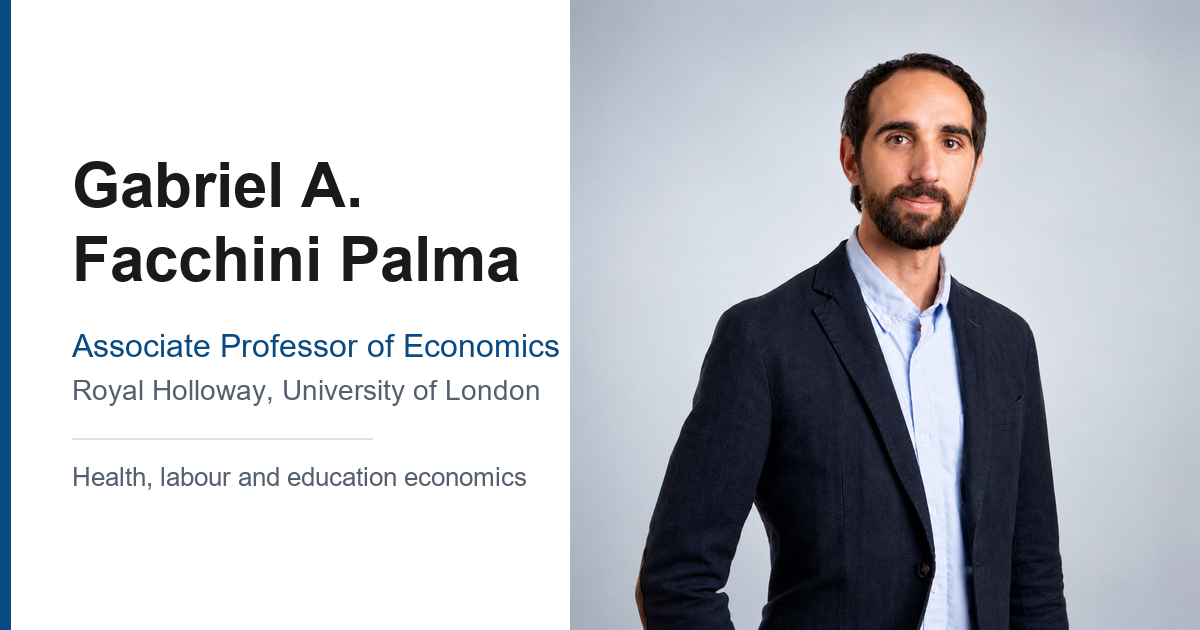
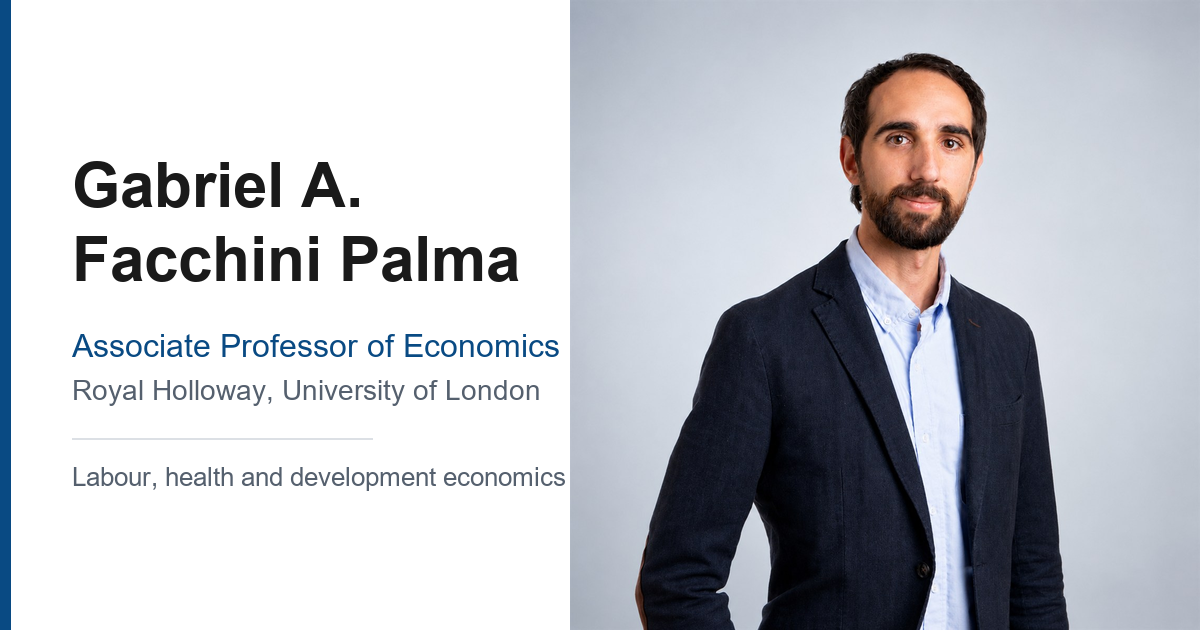
Settle the three content questions Gabriel answered
FLASH: he is part of the research team, not the coordinator, and the project's
real name is FLASH -- "Flexible Approaches to Support Health through financing",
grant 101095424, confirmed against CORDIS. The news item said "Coordinator" and
gave an informal project title; the CV had it right all along.

Fields of interest were framed four different ways across _config.yml, the
homepage bio and the CV. All now say labour, health and development economics.
"Political Economy" is dropped from the CV list, which he did not include.

Publication years were the online-first dates, not the issue dates:
- Forgetting-by-not-doing, Health Economics 31(3): online Dec 2021, issue 2022
- BJGP 76(767): online Dec 2025, issue 2026
Both moved to the issue year. This reorders the Publications section.

og_preview.png is regenerated -- the old field list was baked into the image.

Changed region(s): [[0.0617, 0.7238, 0.4625, 0.7841]]

diff --git a/_pages/about.md b/_pages/about.md
@@ -34,7 +34,7 @@ latest_posts:
 ---
 
 I am an Associate Professor of Economics at Royal Holloway, University of London. I work in applied
-microeconomics, mainly in **health, labour and education economics**.
+microeconomics, mainly in **labour, health and development economics**.
 
 Before joining Royal Holloway, I taught at the Universitat Autònoma de Barcelona. I hold a PhD in
 Economics from the European University Institute.

diff --git a/_news/2023-09-01-horizon-europe-project.md b/_news/2023-09-01-horizon-europe-project.md
@@ -5,4 +5,4 @@ inline: true
 related_posts: false
 ---
 
-New project: Better financing systems in health care in Europe. Horizon Europe, Coordinator, 2023–2026 (€5 million).
+New project: **FLASH** — Flexible Approaches to Support Health through Financing. Funded by Horizon Europe, 2023–2026 (€4.96 million). Part of the research team.
